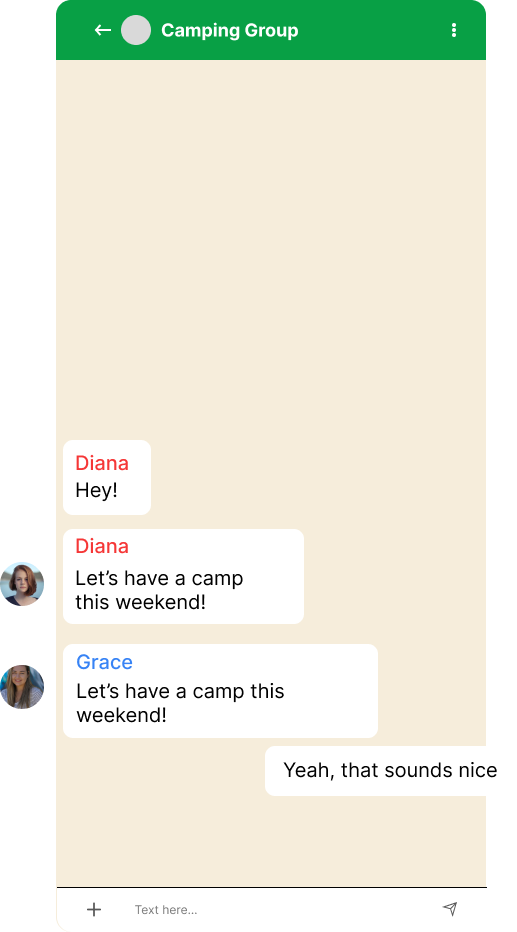
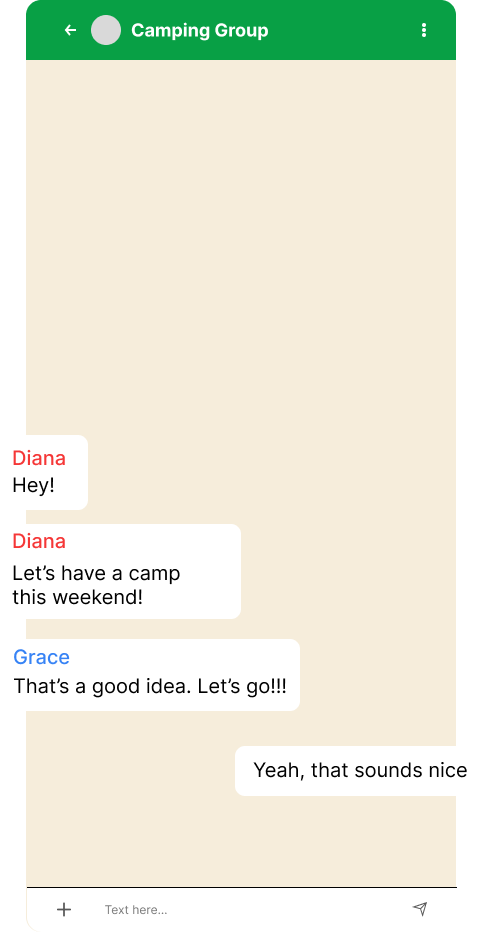
1. chore(group-chat.png): change image 2. chore(landing page): update style

diff --git a/components/landing-page-body/index.tsx b/components/landing-page-body/index.tsx
@@ -2,31 +2,29 @@ import React from "react";
 import Image from "next/image";
 
 import style from "./landing-page-body.module.scss";
+import GroupChat from "@/public/group-chat.png";
+import User1 from "@/public/user-1.jpg";
+import User2 from "@/public/user-2.jpg";
 
 const LandingPageBody = () => {
   return (
     <section>
       <div className={style.first}>
-        <h1>Chat With Someone Privately</h1>
+        <h1>Chat in Private Chat</h1>
         <div className={style.chat_preview}>
           <div className={style.user_1}>
             <div>Hello there!</div>
-            <Image src="/user-1.jpg" alt="User one" width={640} height={960} />
+            <Image src={User1} alt="User one" width={640} height={960} />
           </div>
           <div className={style.user_2}>
-            <Image src="/user-2.jpg" alt="User two" width={640} height={427} />
+            <Image src={User2} alt="User two" width={640} height={427} />
             <div>Hi</div>
           </div>
         </div>
       </div>
       <div className={style.second}>
-        <h1>Create Group With Your Friends</h1>
-        <Image
-          src="/group-chat.png"
-          alt="group chat"
-          width={517}
-          height={932}
-        />
+        <h1>Or in Group Chat</h1>
+        <Image src={GroupChat} alt="group chat" />
       </div>
     </section>
   );

diff --git a/components/landing-page-hero/index.tsx b/components/landing-page-hero/index.tsx
@@ -3,6 +3,7 @@ import Image from "next/image";
 import Link from "next/link";
 
 import style from "./landing-page-hero.module.scss";
+import HeroImage from "@/public/using-app.jpg";
 
 const LandingPageHero = () => {
   return (
@@ -12,13 +13,7 @@ const LandingPageHero = () => {
         <p>Easily chat with your friends or someone you know!</p>
         <Link href="/sign-up">Start now</Link>
       </div>
-      <Image
-        src="/using-app.jpg"
-        alt="Person using an application"
-        priority
-        width={1920}
-        height={1080}
-      />
+      <Image src={HeroImage} alt="Person using an application" priority />
     </section>
   );
 };

diff --git a/components/landing-page-header/landing-page-header.module.scss b/components/landing-page-header/landing-page-header.module.scss
@@ -31,4 +31,23 @@
   @include breakpoint.desktop {
     padding: 2rem 6rem;
   }
+
+  & > div {
+    & > a {
+      --font-color: #000;
+      --bg-color: #08a045;
+
+      text-decoration: none;
+      padding: 0.75rem 1rem;
+      color: var(--font-color);
+      border-radius: 6px;
+
+      &:hover {
+        --hover-font-color: #fff;
+
+        color: var(--hover-font-color);
+        background-color: var(--bg-color);
+      }
+    }
+  }
 }

diff --git a/components/landing-page-header/index.tsx b/components/landing-page-header/index.tsx
@@ -1,4 +1,5 @@
 import React from "react";
+import Link from "next/link";
 
 import style from "./landing-page-header.module.scss";
 import TahcuLogo from "../tahcu-logo";
@@ -8,6 +9,10 @@ const LandingPageHeader = () => {
     <header className={style.header}>
       <TahcuLogo />
       <span>Tahcu</span>
+
+      <div className="margin-left-auto">
+        <Link href="/login">Login</Link>
+      </div>
     </header>
   );
 };
